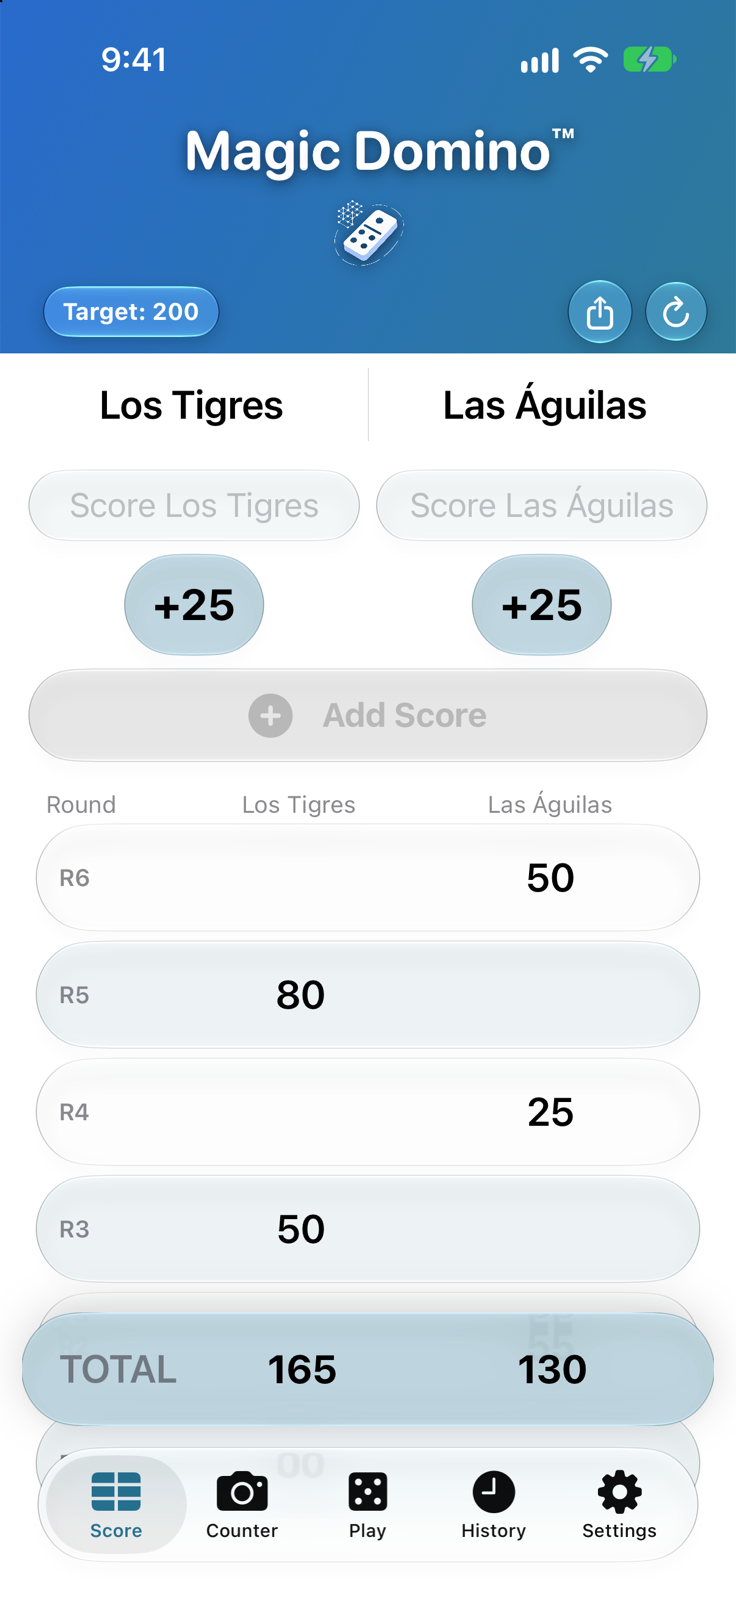
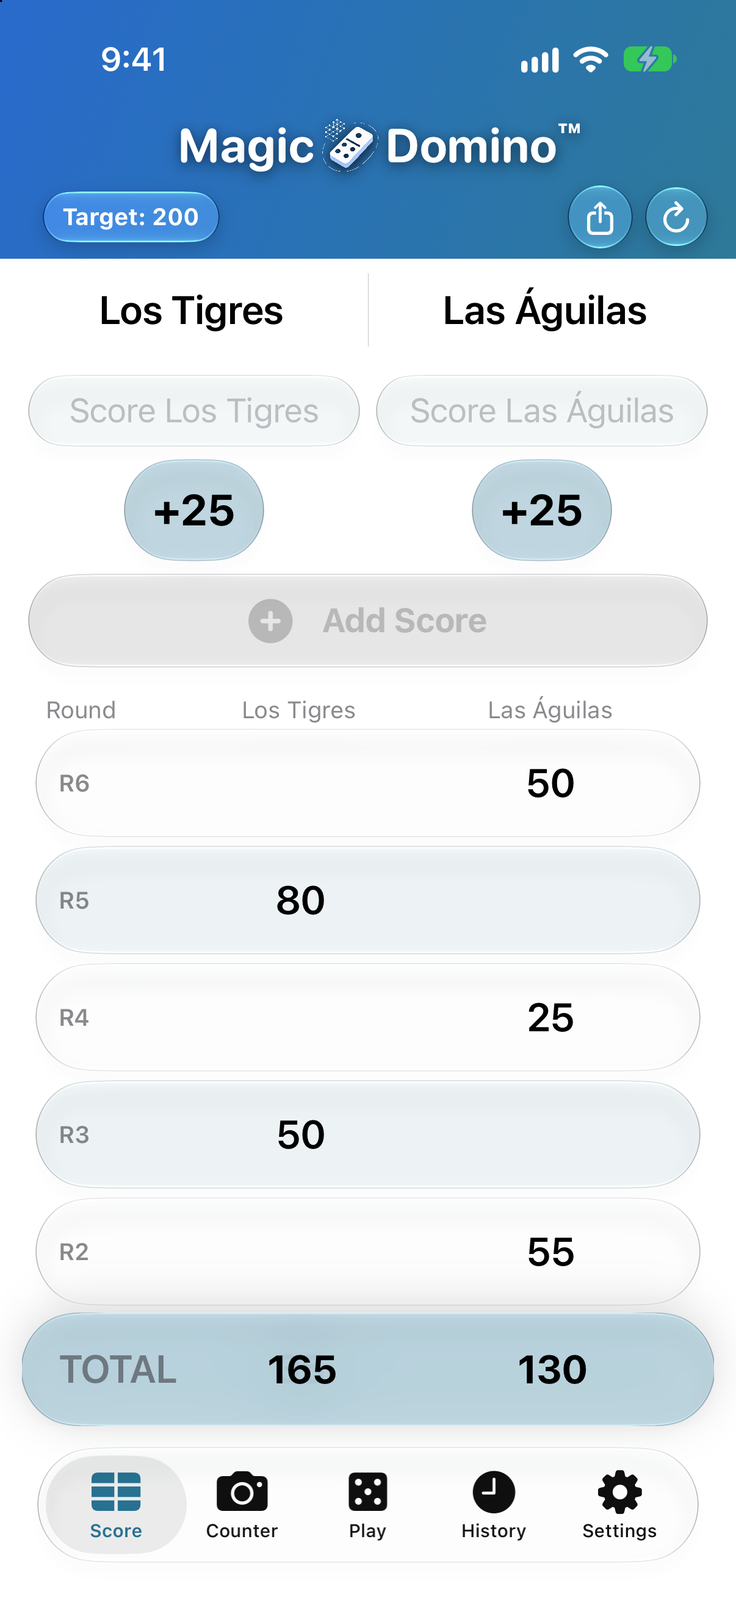
home: scoreboard shot on the Minimal header; game shot keeps names and scores at the top

diff --git a/index.html b/index.html
@@ -14,25 +14,25 @@
     <meta property="og:title" content="Magic Domino™ — Keep the score. Play the game.">
     <meta property="og:description" content="The dominoes scorekeeper trusted at real tables, and a real domino game with the rules you grew up with. Two rooms, one app.">
     <meta property="og:url" content="https://magicdomino.com/">
-    <meta property="og:image" content="https://magicdomino.com/social-card.png?v=20260930e">
+    <meta property="og:image" content="https://magicdomino.com/social-card.png?v=20260930f">
     <meta property="og:image:width" content="1024">
     <meta property="og:image:height" content="500">
     <meta name="twitter:card" content="summary_large_image">
     <meta name="twitter:title" content="Magic Domino™ — Keep the score. Play the game.">
     <meta name="twitter:description" content="The dominoes scorekeeper trusted at real tables, and a real domino game with the rules you grew up with. Two rooms, one app.">
-    <meta name="twitter:image" content="https://magicdomino.com/social-card.png?v=20260930e">
+    <meta name="twitter:image" content="https://magicdomino.com/social-card.png?v=20260930f">
 
     <link rel="preconnect" href="https://fonts.googleapis.com">
     <link rel="preconnect" href="https://fonts.gstatic.com" crossorigin>
     <link href="https://fonts.googleapis.com/css2?family=Fraunces:ital,opsz,wght@0,9..144,400;0,9..144,500;0,9..144,600;0,9..144,700;0,9..144,800;1,9..144,500&family=Inter:wght@400;500;600;700&display=swap" rel="stylesheet">
-    <link rel="stylesheet" href="site.css?v=20260930e">
-    <script src="/i18n.js?v=20260930e"></script>
+    <link rel="stylesheet" href="site.css?v=20260930f">
+    <script src="/i18n.js?v=20260930f"></script>
 </head>
 <body>
 
     <nav class="navbar" id="navbar">
         <a href="index.html" class="navbar-brand">
-            <img src="app-icon.png?v=20260930e" alt="" class="brand-icon"><span>Magic Domino<span class="brand-tm">™</span></span>
+            <img src="app-icon.png?v=20260930f" alt="" class="brand-icon"><span>Magic Domino<span class="brand-tm">™</span></span>
         </a>
         <button class="mobile-menu-toggle" onclick="toggleMenu()" aria-label="Menu" data-i18n-attr="aria-label:a11y.menu">☰</button>
         <div class="navbar-links" id="navbarLinks">
@@ -60,7 +60,7 @@
                     <a class="pane-link" href="#score"><span data-i18n="hero.scoreLink">See the scorekeeper</span> <span aria-hidden="true">↓</span></a>
                 </div>
                 <!-- A real phone, showing the real scoreboard, rising out of the pane. -->
-                <figure class="mock mock-score" aria-hidden="true"><img src="hero-score.png?v=20260930e" alt="" width="736" height="1600"></figure>
+                <figure class="mock mock-score" aria-hidden="true"><img src="hero-score.png?v=20260930f" alt="" width="736" height="1600"></figure>
             </div>
 
             <div class="pane pane-play world-play">
@@ -71,11 +71,11 @@
                     <a class="pane-link" href="#play"><span data-i18n="hero.playLink">See the game</span> <span aria-hidden="true">↓</span></a>
                 </div>
                 <!-- A real phone, showing the table mid-hand. -->
-                <figure class="mock mock-play" aria-hidden="true"><img src="hero-play.png?v=20260930e" alt="" width="736" height="1600"></figure>
+                <figure class="mock mock-play" aria-hidden="true"><img src="hero-play.png?v=20260930f" alt="" width="736" height="1600"></figure>
             </div>
 
             <div class="hinge" aria-hidden="true">
-                <img src="app-icon.png?v=20260930e" alt="" class="hinge-icon">
+                <img src="app-icon.png?v=20260930f" alt="" class="hinge-icon">
                 <span class="hinge-label" data-i18n="hero.oneApp">One app</span>
             </div>
         </div>
@@ -163,19 +163,19 @@
                 <button class="scroll-arrow scroll-arrow-left" aria-label="Previous screenshots" data-i18n-attr="aria-label:a11y.prevShots" onclick="scrollStrip('scoreStrip', -1)">‹</button>
                 <div class="strip" id="scoreStrip">
                     <figure class="shot"><div class="shot-frame">
-                        <img src="shot-1.png?v=20260930e" alt="AI score counting with the camera" data-i18n-attr="alt:alt.shot1" data-missing onload="shotLoaded(this)" onerror="this.remove()">
+                        <img src="shot-1.png?v=20260930f" alt="AI score counting with the camera" data-i18n-attr="alt:alt.shot1" data-missing onload="shotLoaded(this)" onerror="this.remove()">
                         <div class="ph"><div><div class="ph-board"><span class="bar hi"></span><span class="bar"></span><span class="bar g"></span><span class="bar"></span></div><div class="ph-title" data-i18n="alt.shot1">AI score counting</div></div></div>
                     </div></figure>
                     <figure class="shot"><div class="shot-frame">
-                        <img src="shot-2.png?v=20260930e" alt="Scoreboard view" data-i18n-attr="alt:alt.shot2" data-missing onload="shotLoaded(this)" onerror="this.remove()">
+                        <img src="shot-2.png?v=20260930f" alt="Scoreboard view" data-i18n-attr="alt:alt.shot2" data-missing onload="shotLoaded(this)" onerror="this.remove()">
                         <div class="ph"><div><div class="ph-board"><span class="bar hi"></span><span class="bar"></span><span class="bar g"></span><span class="bar"></span></div><div class="ph-title" data-i18n="alt.shot2">Scoreboard</div></div></div>
                     </div></figure>
                     <figure class="shot"><div class="shot-frame">
-                        <img src="shot-3.png?v=20260930e" alt="Tournament bracket" data-i18n-attr="alt:alt.shot3" data-missing onload="shotLoaded(this)" onerror="this.remove()">
+                        <img src="shot-3.png?v=20260930f" alt="Tournament bracket" data-i18n-attr="alt:alt.shot3" data-missing onload="shotLoaded(this)" onerror="this.remove()">
                         <div class="ph"><div><div class="ph-board"><span class="bar hi"></span><span class="bar"></span><span class="bar g"></span><span class="bar"></span></div><div class="ph-title" data-i18n="alt.shot3">Tournament bracket</div></div></div>
                     </div></figure>
                     <figure class="shot"><div class="shot-frame">
-                        <img src="shot-4.png?v=20260930e" alt="Game history" data-i18n-attr="alt:alt.shot4" data-missing onload="shotLoaded(this)" onerror="this.remove()">
+                        <img src="shot-4.png?v=20260930f" alt="Game history" data-i18n-attr="alt:alt.shot4" data-missing onload="shotLoaded(this)" onerror="this.remove()">
                         <div class="ph"><div><div class="ph-board"><span class="bar hi"></span><span class="bar"></span><span class="bar g"></span><span class="bar"></span></div><div class="ph-title" data-i18n="alt.shot4">Game history</div></div></div>
                     </div></figure>
                 </div>
@@ -262,27 +262,27 @@
                 <button class="scroll-arrow scroll-arrow-left" aria-label="Previous screenshots" data-i18n-attr="aria-label:a11y.prevShots" onclick="scrollStrip('playStrip', -1)">‹</button>
                 <div class="strip" id="playStrip">
                     <figure class="shot"><div class="shot-frame">
-                        <img src="play-shot-1.png?v=20260930e" alt="The table" data-i18n-attr="alt:pshots.s1" data-missing onload="shotLoaded(this)" onerror="this.remove()">
+                        <img src="play-shot-1.png?v=20260930f" alt="The table" data-i18n-attr="alt:pshots.s1" data-missing onload="shotLoaded(this)" onerror="this.remove()">
                         <div class="ph"><div><div class="ph-mini"><div class="tile h"><div class="face p6"><i></i><i></i><i></i><i></i><i></i><i></i><i></i><i></i><i></i></div><div class="face p3"><i></i><i></i><i></i><i></i><i></i><i></i><i></i><i></i><i></i></div></div><div class="tile h just"><div class="face p3"><i></i><i></i><i></i><i></i><i></i><i></i><i></i><i></i><i></i></div><div class="face p1"><i></i><i></i><i></i><i></i><i></i><i></i><i></i><i></i><i></i></div></div></div><div class="ph-title" data-i18n="pshots.s1">The table</div></div></div>
                     </div></figure>
                     <figure class="shot"><div class="shot-frame">
-                        <img src="play-shot-2.png?v=20260930e" alt="The front door" data-i18n-attr="alt:pshots.s5" data-missing onload="shotLoaded(this)" onerror="this.remove()">
+                        <img src="play-shot-2.png?v=20260930f" alt="The front door" data-i18n-attr="alt:pshots.s5" data-missing onload="shotLoaded(this)" onerror="this.remove()">
                         <div class="ph"><div><div class="ph-mini"><div class="tile "><div class="face p6"><i></i><i></i><i></i><i></i><i></i><i></i><i></i><i></i><i></i></div><div class="face p6"><i></i><i></i><i></i><i></i><i></i><i></i><i></i><i></i><i></i></div></div><div class="tile "><div class="face p5"><i></i><i></i><i></i><i></i><i></i><i></i><i></i><i></i><i></i></div><div class="face p5"><i></i><i></i><i></i><i></i><i></i><i></i><i></i><i></i><i></i></div></div><div class="tile "><div class="face p4"><i></i><i></i><i></i><i></i><i></i><i></i><i></i><i></i><i></i></div><div class="face p4"><i></i><i></i><i></i><i></i><i></i><i></i><i></i><i></i><i></i></div></div></div><div class="ph-title" data-i18n="pshots.s5">The front door</div></div></div>
                     </div></figure>
                     <figure class="shot"><div class="shot-frame">
-                        <img src="play-shot-3.png?v=20260930e" alt="Pick your game" data-i18n-attr="alt:pshots.s2" data-missing onload="shotLoaded(this)" onerror="this.remove()">
+                        <img src="play-shot-3.png?v=20260930f" alt="Pick your game" data-i18n-attr="alt:pshots.s2" data-missing onload="shotLoaded(this)" onerror="this.remove()">
                         <div class="ph"><div><div class="ph-mini"><div class="tile "><div class="face p6"><i></i><i></i><i></i><i></i><i></i><i></i><i></i><i></i><i></i></div><div class="face p6"><i></i><i></i><i></i><i></i><i></i><i></i><i></i><i></i><i></i></div></div><div class="tile "><div class="face p5"><i></i><i></i><i></i><i></i><i></i><i></i><i></i><i></i><i></i></div><div class="face p5"><i></i><i></i><i></i><i></i><i></i><i></i><i></i><i></i><i></i></div></div><div class="tile "><div class="face p4"><i></i><i></i><i></i><i></i><i></i><i></i><i></i><i></i><i></i></div><div class="face p4"><i></i><i></i><i></i><i></i><i></i><i></i><i></i><i></i><i></i></div></div></div><div class="ph-title" data-i18n="pshots.s2">Pick your game</div></div></div>
                     </div></figure>
                     <figure class="shot"><div class="shot-frame">
-                        <img src="play-shot-4.png?v=20260930e" alt="Play together" data-i18n-attr="alt:pshots.s3" data-missing onload="shotLoaded(this)" onerror="this.remove()">
+                        <img src="play-shot-4.png?v=20260930f" alt="Play together" data-i18n-attr="alt:pshots.s3" data-missing onload="shotLoaded(this)" onerror="this.remove()">
                         <div class="ph"><div><div class="ph-mini"><div class="tile back"></div><div class="tile back"></div><div class="tile back"></div><div class="tile back"></div></div><div class="ph-title" data-i18n="pshots.s3">Play together</div></div></div>
                     </div></figure>
                     <figure class="shot"><div class="shot-frame">
-                        <img src="play-shot-5.png?v=20260930e" alt="The bracket" data-i18n-attr="alt:pshots.s4" data-missing onload="shotLoaded(this)" onerror="this.remove()">
+                        <img src="play-shot-5.png?v=20260930f" alt="The bracket" data-i18n-attr="alt:pshots.s4" data-missing onload="shotLoaded(this)" onerror="this.remove()">
                         <div class="ph"><div><div class="ph-mini"><div class="tile h"><div class="face p1"><i></i><i></i><i></i><i></i><i></i><i></i><i></i><i></i><i></i></div><div class="face p1"><i></i><i></i><i></i><i></i><i></i><i></i><i></i><i></i><i></i></div></div></div><div class="ph-title" data-i18n="pshots.s4">The bracket</div></div></div>
                     </div></figure>
                     <figure class="shot"><div class="shot-frame">
-                        <img src="play-shot-6.png?v=20260930e" alt="The hand is over" data-i18n-attr="alt:pshots.s6" data-missing onload="shotLoaded(this)" onerror="this.remove()">
+                        <img src="play-shot-6.png?v=20260930f" alt="The hand is over" data-i18n-attr="alt:pshots.s6" data-missing onload="shotLoaded(this)" onerror="this.remove()">
                         <div class="ph"><div><div class="ph-mini"><div class="tile h"><div class="face p0"><i></i><i></i><i></i><i></i><i></i><i></i><i></i><i></i><i></i></div><div class="face p0"><i></i><i></i><i></i><i></i><i></i><i></i><i></i><i></i><i></i></div></div></div><div class="ph-title" data-i18n="pshots.s6">The hand is over</div></div></div>
                     </div></figure>
                 </div>
@@ -306,7 +306,7 @@
                     <span class="tag" data-i18n="duo.tag">iPhone Duo · opened</span>
                 </div>
                 <figure class="duo-frame">
-                    <img src="duo-split.png?v=20260930e" alt="Magic Domino on an opened iPhone Duo: the scoreboard on the left half, a domino hand in play on the right" width="1800" height="1266" loading="lazy">
+                    <img src="duo-split.png?v=20260930f" alt="Magic Domino on an opened iPhone Duo: the scoreboard on the left half, a domino hand in play on the right" width="1800" height="1266" loading="lazy">
                 </figure>
             </div>
         </div>
@@ -392,7 +392,7 @@
 
     <footer>
         <a href="#top" class="footer-brand">
-            <img src="app-icon.png?v=20260930e" alt="" class="brand-icon"><span>Magic Domino<span class="brand-tm">™</span></span>
+            <img src="app-icon.png?v=20260930f" alt="" class="brand-icon"><span>Magic Domino<span class="brand-tm">™</span></span>
         </a>
         <div class="store-row footer-store">
             <a href="https://apps.apple.com/us/app/magic-domino-ai-scorekeeper/id6747228055" class="store-badge" aria-label="Download on the App Store">

diff --git a/privacy.html b/privacy.html
@@ -9,13 +9,13 @@
     <link rel="preconnect" href="https://fonts.googleapis.com">
     <link rel="preconnect" href="https://fonts.gstatic.com" crossorigin>
     <link href="https://fonts.googleapis.com/css2?family=Fraunces:ital,opsz,wght@0,9..144,400;0,9..144,500;0,9..144,600;0,9..144,700;1,9..144,500&family=Inter:wght@400;500;600;700&display=swap" rel="stylesheet">
-    <link rel="stylesheet" href="site.css?v=20260930e">
-    <script src="/i18n.js?v=20260930e"></script>
+    <link rel="stylesheet" href="site.css?v=20260930f">
+    <script src="/i18n.js?v=20260930f"></script>
 </head>
 <body>
     <nav class="navbar">
         <a href="index.html" class="navbar-brand">
-            <img src="app-icon.png?v=20260930e" alt="" class="brand-icon"><span>Magic Domino<span class="brand-tm">™</span></span>
+            <img src="app-icon.png?v=20260930f" alt="" class="brand-icon"><span>Magic Domino<span class="brand-tm">™</span></span>
         </a>
         <button class="mobile-menu-toggle" onclick="toggleMenu()" aria-label="Menu" data-i18n-attr="aria-label:a11y.menu">☰</button>
         <div class="navbar-links" id="navbarLinks">
@@ -136,7 +136,7 @@
 
     <footer>
         <a href="index.html" class="footer-brand">
-            <img src="app-icon.png?v=20260930e" alt="" class="brand-icon"><span>Magic Domino<span class="brand-tm">™</span></span>
+            <img src="app-icon.png?v=20260930f" alt="" class="brand-icon"><span>Magic Domino<span class="brand-tm">™</span></span>
         </a>
         <div class="footer-links">
             <a href="index.html#score" data-i18n="nav.score">Scorekeeper</a>

diff --git a/support.html b/support.html
@@ -9,13 +9,13 @@
     <link rel="preconnect" href="https://fonts.googleapis.com">
     <link rel="preconnect" href="https://fonts.gstatic.com" crossorigin>
     <link href="https://fonts.googleapis.com/css2?family=Fraunces:ital,opsz,wght@0,9..144,400;0,9..144,500;0,9..144,600;0,9..144,700;1,9..144,500&family=Inter:wght@400;500;600;700&display=swap" rel="stylesheet">
-    <link rel="stylesheet" href="site.css?v=20260930e">
-    <script src="/i18n.js?v=20260930e"></script>
+    <link rel="stylesheet" href="site.css?v=20260930f">
+    <script src="/i18n.js?v=20260930f"></script>
 </head>
 <body>
     <nav class="navbar">
         <a href="index.html" class="navbar-brand">
-            <img src="app-icon.png?v=20260930e" alt="" class="brand-icon"><span>Magic Domino<span class="brand-tm">™</span></span>
+            <img src="app-icon.png?v=20260930f" alt="" class="brand-icon"><span>Magic Domino<span class="brand-tm">™</span></span>
         </a>
         <button class="mobile-menu-toggle" onclick="toggleMenu()" aria-label="Menu" data-i18n-attr="aria-label:a11y.menu">☰</button>
         <div class="navbar-links" id="navbarLinks">
@@ -248,7 +248,7 @@
 
     <footer>
         <a href="index.html" class="footer-brand">
-            <img src="app-icon.png?v=20260930e" alt="" class="brand-icon"><span>Magic Domino<span class="brand-tm">™</span></span>
+            <img src="app-icon.png?v=20260930f" alt="" class="brand-icon"><span>Magic Domino<span class="brand-tm">™</span></span>
         </a>
         <div class="footer-links">
             <a href="index.html#score" data-i18n="nav.score">Scorekeeper</a>

diff --git a/terms.html b/terms.html
@@ -9,13 +9,13 @@
     <link rel="preconnect" href="https://fonts.googleapis.com">
     <link rel="preconnect" href="https://fonts.gstatic.com" crossorigin>
     <link href="https://fonts.googleapis.com/css2?family=Fraunces:ital,opsz,wght@0,9..144,400;0,9..144,500;0,9..144,600;0,9..144,700;1,9..144,500&family=Inter:wght@400;500;600;700&display=swap" rel="stylesheet">
-    <link rel="stylesheet" href="site.css?v=20260930e">
-    <script src="/i18n.js?v=20260930e"></script>
+    <link rel="stylesheet" href="site.css?v=20260930f">
+    <script src="/i18n.js?v=20260930f"></script>
 </head>
 <body>
     <nav class="navbar">
         <a href="index.html" class="navbar-brand">
-            <img src="app-icon.png?v=20260930e" alt="" class="brand-icon"><span>Magic Domino<span class="brand-tm">™</span></span>
+            <img src="app-icon.png?v=20260930f" alt="" class="brand-icon"><span>Magic Domino<span class="brand-tm">™</span></span>
         </a>
         <button class="mobile-menu-toggle" onclick="toggleMenu()" aria-label="Menu" data-i18n-attr="aria-label:a11y.menu">☰</button>
         <div class="navbar-links" id="navbarLinks">
@@ -176,7 +176,7 @@
 
     <footer>
         <a href="index.html" class="footer-brand">
-            <img src="app-icon.png?v=20260930e" alt="" class="brand-icon"><span>Magic Domino<span class="brand-tm">™</span></span>
+            <img src="app-icon.png?v=20260930f" alt="" class="brand-icon"><span>Magic Domino<span class="brand-tm">™</span></span>
         </a>
         <div class="footer-links">
             <a href="index.html#score" data-i18n="nav.score">Scorekeeper</a>

diff --git a/site.css b/site.css
@@ -627,7 +627,7 @@ footer {
     .pane-play .pane-inner { margin-left: auto; text-align: right; justify-items: end; }
     [dir="rtl"] .pane-play .pane-inner { margin-left: 0; margin-right: auto; text-align: left; justify-items: start; }
     [dir="rtl"] .pane-score .pane-inner { text-align: right; justify-items: end; margin-left: auto; }
-    .mock { width: clamp(144px, 38vw, 164px); top: auto; bottom: -14%; padding: 3%; }
+    .mock { width: clamp(134px, 35vw, 150px); top: auto; bottom: -3%; padding: 3%; }
     .mock-score { right: 1.1rem; rotate: 0deg; }
     .mock-play { left: 1.1rem; rotate: 0deg; }
     [dir="rtl"] .mock-score { right: auto; left: 1.1rem; }

diff --git a/404.html b/404.html
@@ -217,7 +217,7 @@
         .store-badge img { height: 44px; }
     }
 </style>
-    <script src="/i18n.js?v=20260930e"></script>
+    <script src="/i18n.js?v=20260930f"></script>
 </head>
 <body>
 <div class="dot-bg"></div>

diff --git a/SCREENSHOTS.md b/SCREENSHOTS.md
@@ -13,11 +13,11 @@ may be cropped at the top and bottom.
 
 `hero-score.png` and `hero-play.png` (736 × 1600) are the two real phones in the
 split hero: the scoreboard mid-game (Los Tigres 165 · Las Águilas 130, light
-mode) and the table mid-hand. Captured 2026-09-30 on the "MD Site Shots"
+mode, the MINIMAL header tier — `-headerSize_MagicDomino Minimal` at launch, so more
+of the board shows in the crop) and the table mid-hand. Captured 2026-09-30 on the "MD Site Shots"
 simulator; the scoreboard by naming the teams and adding six rounds by hand, the
-table from the same capture as `play-shot-1.png`, with its content shifted UP by
-30% inside a felt-coloured canvas (a short window crops the phone before the
-tiles would otherwise appear; PIL, see the git log). The bezel, tilt, glow and
+table from the same capture as `play-shot-1.png`, unshifted, so the names and
+scores stay at the top of the phone. The bezel, tilt, glow and
 entrance are CSS (`.mock` in site.css); drop a new PNG under the same name and
 bump the `?v=` to replace either.
 
